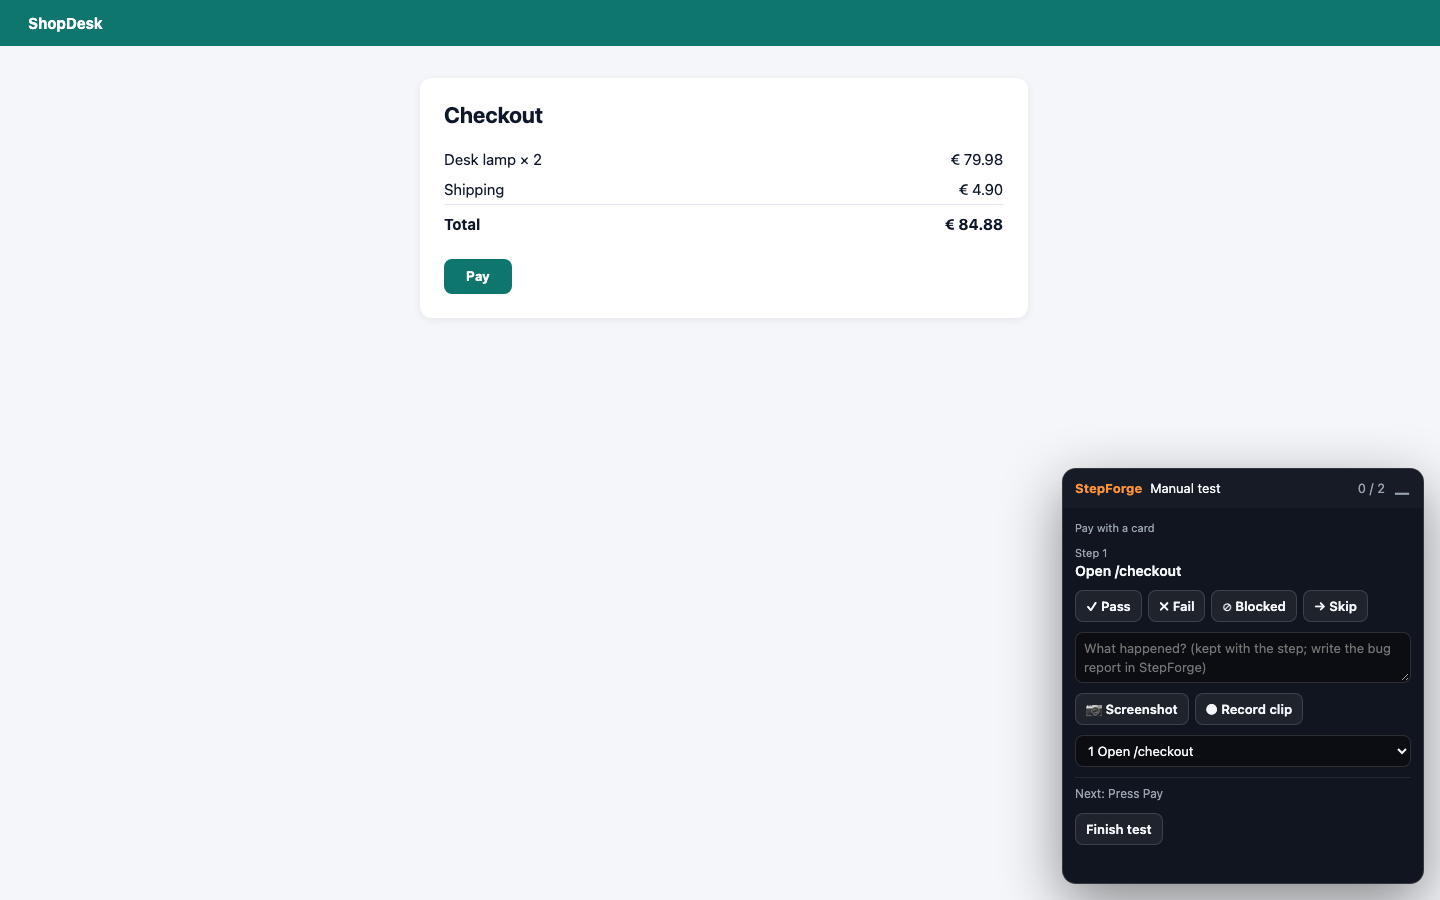
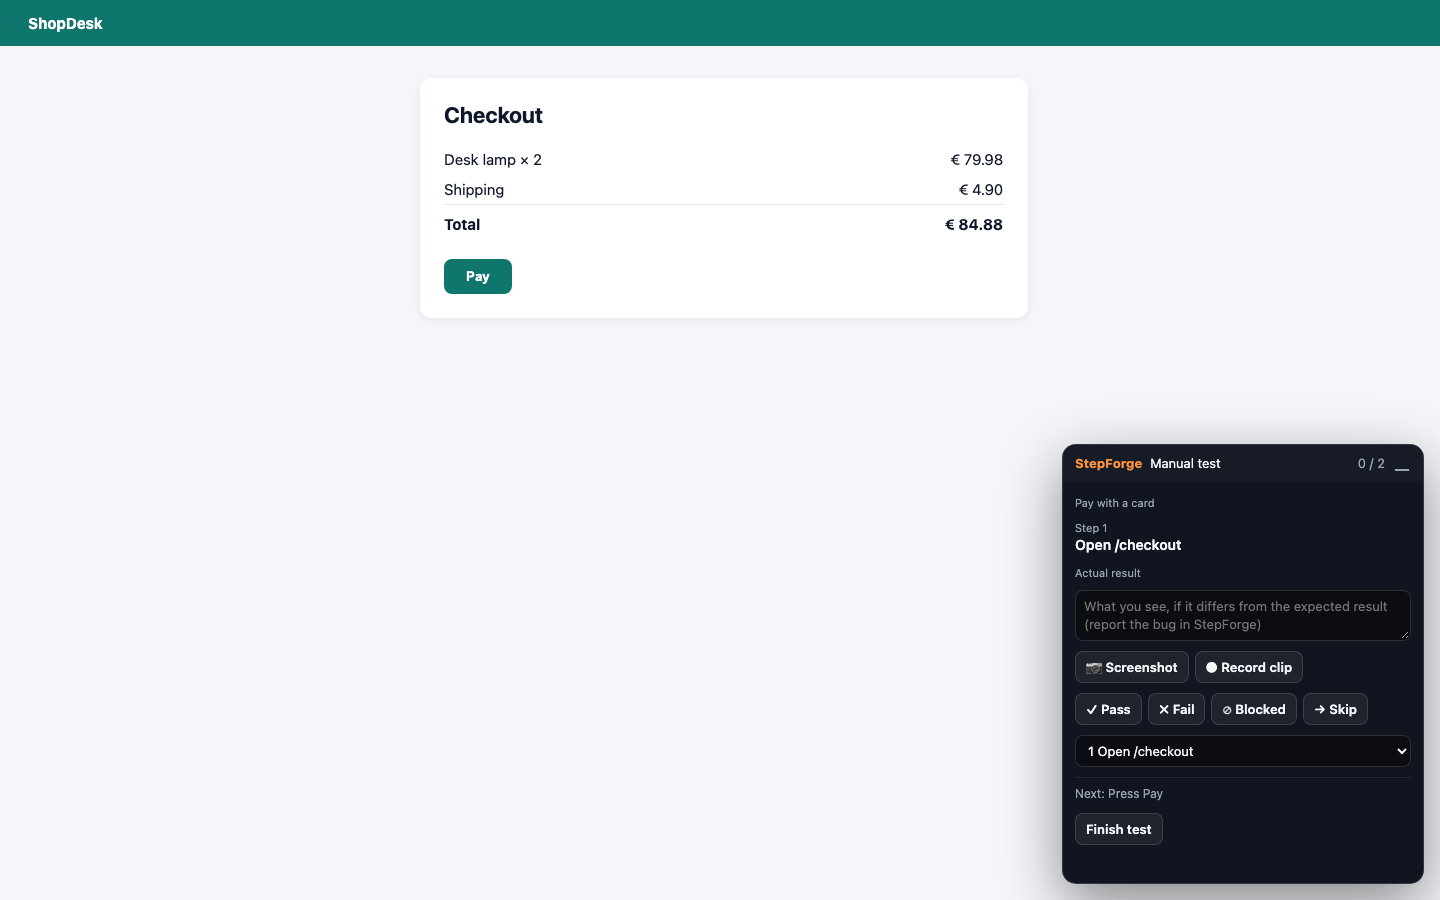
docs: the desktop app release — README, What's new, changelog, known issues and new screenshots

Changed region(s): [[0.7188, 0.4667, 1.0, 0.8089]]

diff --git a/README.md b/README.md
@@ -66,7 +66,26 @@ Selenium, k6 or Postman, or run it from the CLI and CI. No accounts, no cloud, n
 
 ## What's new
 
-**Just added — iOS, Android and desktop apps:**
+**Just added — StepForge as a desktop app:**
+
+<p align="center"><img src="docs/assets/screenshots/new/desktop-app.png" width="820" alt="The StepForge dashboard in its own desktop window" /></p>
+
+- **Desktop app for macOS, Windows and Linux**: installers (`.dmg`, `.exe`, AppImage, `.deb`) that bring their own
+  runtime: no Node.js, no terminal. The first start downloads Chromium for UI tests and Mailpit for email tests, with
+  progress; without internet it opens anyway and tries again later. Data stays on your computer
+  ([guide](docs/STEPFORGE_DESKTOP.md)).
+- **Manual testing, step by step**: the panel follows how a tester works: do the step with the expected result in view,
+  write the actual result, take a screenshot or a clip, then pass, fail, blocked or skip
+  ([guide](docs/MANUAL_RUNS.md)).
+- **Frames inside frames**: `#outer >>> #inner` reaches an iframe inside an iframe (payment forms, embedded widgets),
+  in the recorder, the runner and every export ([steps](docs/STEP_REFERENCE.md)).
+- **Verified downloads**: Mailpit and k6 are checked against their SHA-256 before they are installed.
+- **A full QA pass on StepForge itself**: 104 findings across security, the runner, diagnosis, the dashboard, phone and
+  desktop apps, code export, API, databases and the CLI, all resolved. **588 unit and integration tests** and **42
+  end-to-end tests** pass; CI runs 11 jobs (including an Android emulator, an iOS simulator and macOS, Windows and Linux
+  desktops) and builds the installers, running the demo tests inside the app.
+
+**Earlier — iOS, Android and desktop apps:**
 
 - **Export to Appium and Maestro**: phone and desktop tests become ready-to-run Appium projects (Python, TypeScript,
   Java) or Maestro flows, with a CI workflow for an emulator, a simulator or a desktop runner; Electron tests export to
@@ -184,8 +203,9 @@ cd stepforge
 ./start.sh
 ```
 
-StepForge opens at <http://127.0.0.1:4400> (or the next free port). Prefer a window of its own? `npm run desktop` opens
-the same StepForge as a desktop app; installers that need no Node.js are on the way ([details](docs/STEPFORGE_DESKTOP.md)).
+StepForge opens at <http://127.0.0.1:4400> (or the next free port). Prefer a window of its own? Install the desktop
+app from the [releases](https://github.com/zarindev/StepForge/releases), or run `npm run desktop` from the clone
+([details](docs/STEPFORGE_DESKTOP.md)).
 
 ### Load the demo workspace in 60 seconds
 

diff --git a/docs/WHATS_NEW.md b/docs/WHATS_NEW.md
@@ -2,6 +2,31 @@
 
 _By Md Zarin Tasnim · part of the StepForge documentation_
 
+## Update — StepForge as a desktop app
+
+![The StepForge dashboard in its own window](assets/screenshots/new/desktop-app.png)
+
+StepForge now installs like any app: **`.dmg`** for macOS (Apple silicon and Intel), **`.exe`** for Windows,
+**AppImage** and **`.deb`** for Linux. The installers bring their own runtime, so nobody needs Node.js or a terminal.
+The first start downloads Chromium for UI tests and Mailpit for email tests, with progress on the start screen; with no
+internet it opens anyway, says why, and tries again at the next start. Your data lives in the usual app-data folder
+and never leaves the computer. If StepForge already runs on the same data folder (with `npm start`), the window opens
+that one; quitting marks a running test *interrupted*, so it can be resumed. From a clone, `npm run desktop` opens the
+same app. CI builds every installer and runs the demo tests inside the installed app.
+→ [Desktop app](STEPFORGE_DESKTOP.md)
+
+Also new:
+
+- **Manual testing, step by step.** The panel now follows the order a tester works in: the step and its expected
+  result, then what you actually see, then a screenshot or clip, then pass, fail, blocked or skip.
+  → [Manual testing](MANUAL_RUNS.md)
+- **Frames inside frames.** A frame selector can name a chain, `#outer >>> #inner`, for a payment form inside an iframe
+  inside another. The recorder writes it, the runner follows it, and the Playwright and Selenium exports keep it.
+  → [Step reference](STEP_REFERENCE.md)
+- **Verified downloads.** Mailpit and k6 are checked against their SHA-256 before they are installed.
+- **A full QA pass.** 104 findings across security, the runner, diagnosis, the dashboard, phone and desktop apps, code
+  export, API, databases and the CLI, all resolved; 588 unit and integration tests and 42 end-to-end tests pass.
+
 ## Update — export to Appium and Maestro
 
 Phone and desktop tests now leave StepForge as ready-to-run projects. **Exports** offers **Appium** in Python

diff --git a/docs/KNOWN_ISSUES.md b/docs/KNOWN_ISSUES.md
@@ -89,3 +89,4 @@ _By Md Zarin Tasnim · part of the StepForge documentation_
 | 83 | Image locators | A picture is matched at its own size and rotation only (crop it from the same kind of screen); it cannot read text or attributes; things drawn on top lower the score. Not exported to code. | By design; see IMAGE_LOCATORS.md. |
 | 84 | Linux apps | GTK 3 apps need ATK 2.34+ for accessible ids (otherwise use names, roles or pictures); XPath is ElementTree's subset; screenshots need X11 or Xwayland; no screen recording, device log, recorder or manual-test panel yet. Tested only in the `linux-desktop` CI job (Ubuntu, GTK 3, virtual display); no Linux desktop was used during development. | Planned. |
 | 85 | Appium / Maestro export | Appium exports keep each step's Appium selectors but not StepForge's image locators, visual checkpoints or web-page steps (TODO). Maestro flows use one id or text locator per step (no XPath, no fallbacks) and have no equivalent for backgrounding the app, permissions after launch, notifications, menus, drag and drop, fixed waits, or API, database and email steps (TODO); Maestro does not install the app and needs its id (`APP_ID` when the environment names only the app file). No GitLab CI files for these apps. Run against the Android emulator and iOS simulator demos on macOS; the desktop exports run only in CI. | Write the TODO steps in the target framework. |
+| 86 | Desktop app | The installers are not signed: macOS asks to confirm the first start (right-click → Open), Windows SmartScreen asks too. About 630 MB installed (Electron plus StepForge's dependencies). No automatic updates yet. Linux UI tests need Chromium's system libraries. The Intel Mac app is built on CI but not started there (Apple-silicon runners). | Signing and updates planned. |

diff --git a/CHANGELOG.md b/CHANGELOG.md
@@ -3,6 +3,19 @@
 ## [Unreleased]
 
 ### Added
+- **Desktop app** (`apps/desktop`, Electron): StepForge in its own window. Installed, the server runs on Electron's
+  own Node.js (better-sqlite3 rebuilt for it), data lives in the user's app-data folder, and the first start downloads
+  Playwright's Chromium and Mailpit (with a connection check first, so an offline start opens at once). From a clone,
+  `npm run desktop`. One window per data folder; an already running server is opened instead of starting a second;
+  quitting shuts the server down over IPC, and the server stops if the app dies. `npm run desktop:package` builds the
+  installers (`.dmg`, `.exe`, AppImage, `.deb`; not signed yet); `apps/desktop/scripts/smoke.mjs` starts the built app
+  and runs the demo tests in it; the `Desktop app` workflow builds and tests each system and attaches the installers to
+  a draft release on a version tag. Appium installs from the app use the portable Node.js (with npm).
+- **Frames inside frames**: `ui.switchFrame` takes a chain, `#outer >>> #inner` (`frameChain()` in core); the recorder
+  records the full chain, and Playwright (TS, Python) and the Selenium helpers (Python, Java) follow it. The Selenium
+  helpers also understand `>> nth=N`.
+- **Verified downloads**: `downloadRelease()` (`@stepforge/core/download`) checks Mailpit and k6 against pinned SHA-256
+  hashes, or GitHub's published digest for another version.
 - **Appium and Maestro export** (N7): four new targets for phone and desktop apps — `appium-py` (Appium-Python-Client
   + pytest), `appium-ts` (WebdriverIO + Mocha, TypeScript), `appium-java` (java-client + JUnit 5, Maven) for Android,
   iOS, macOS, Windows and Linux, and `maestro` (YAML flows) for Android and iOS. The plan gets a native mode: phone and

diff --git a/docs/STEPFORGE_DESKTOP.md b/docs/STEPFORGE_DESKTOP.md
@@ -2,6 +2,8 @@
 
 _By Md Zarin Tasnim · part of the StepForge documentation_
 
+![StepForge in its own window](assets/screenshots/new/desktop-app.png)
+
 StepForge can run in its own window instead of a browser tab. It is the same StepForge: the same local server, the
 same dashboard and the same data folder, so tests, runs and settings are shared with `npm start` and the CLI.
 
@@ -23,6 +25,8 @@ Nothing else to install: the app brings its own runtime. On Linux, UI tests also
 (`npx playwright install-deps chromium`, or the packages listed by Playwright for your distribution).
 
 ### First start
+
+![The start screen downloading Chromium on the first start](assets/screenshots/new/desktop-first-start.png)
 
 - **macOS:** the app is not signed with an Apple Developer certificate yet, so macOS says it cannot check it. Open it
   once with right-click → **Open** → **Open** (or System Settings → Privacy & Security → **Open Anyway**). After that it
